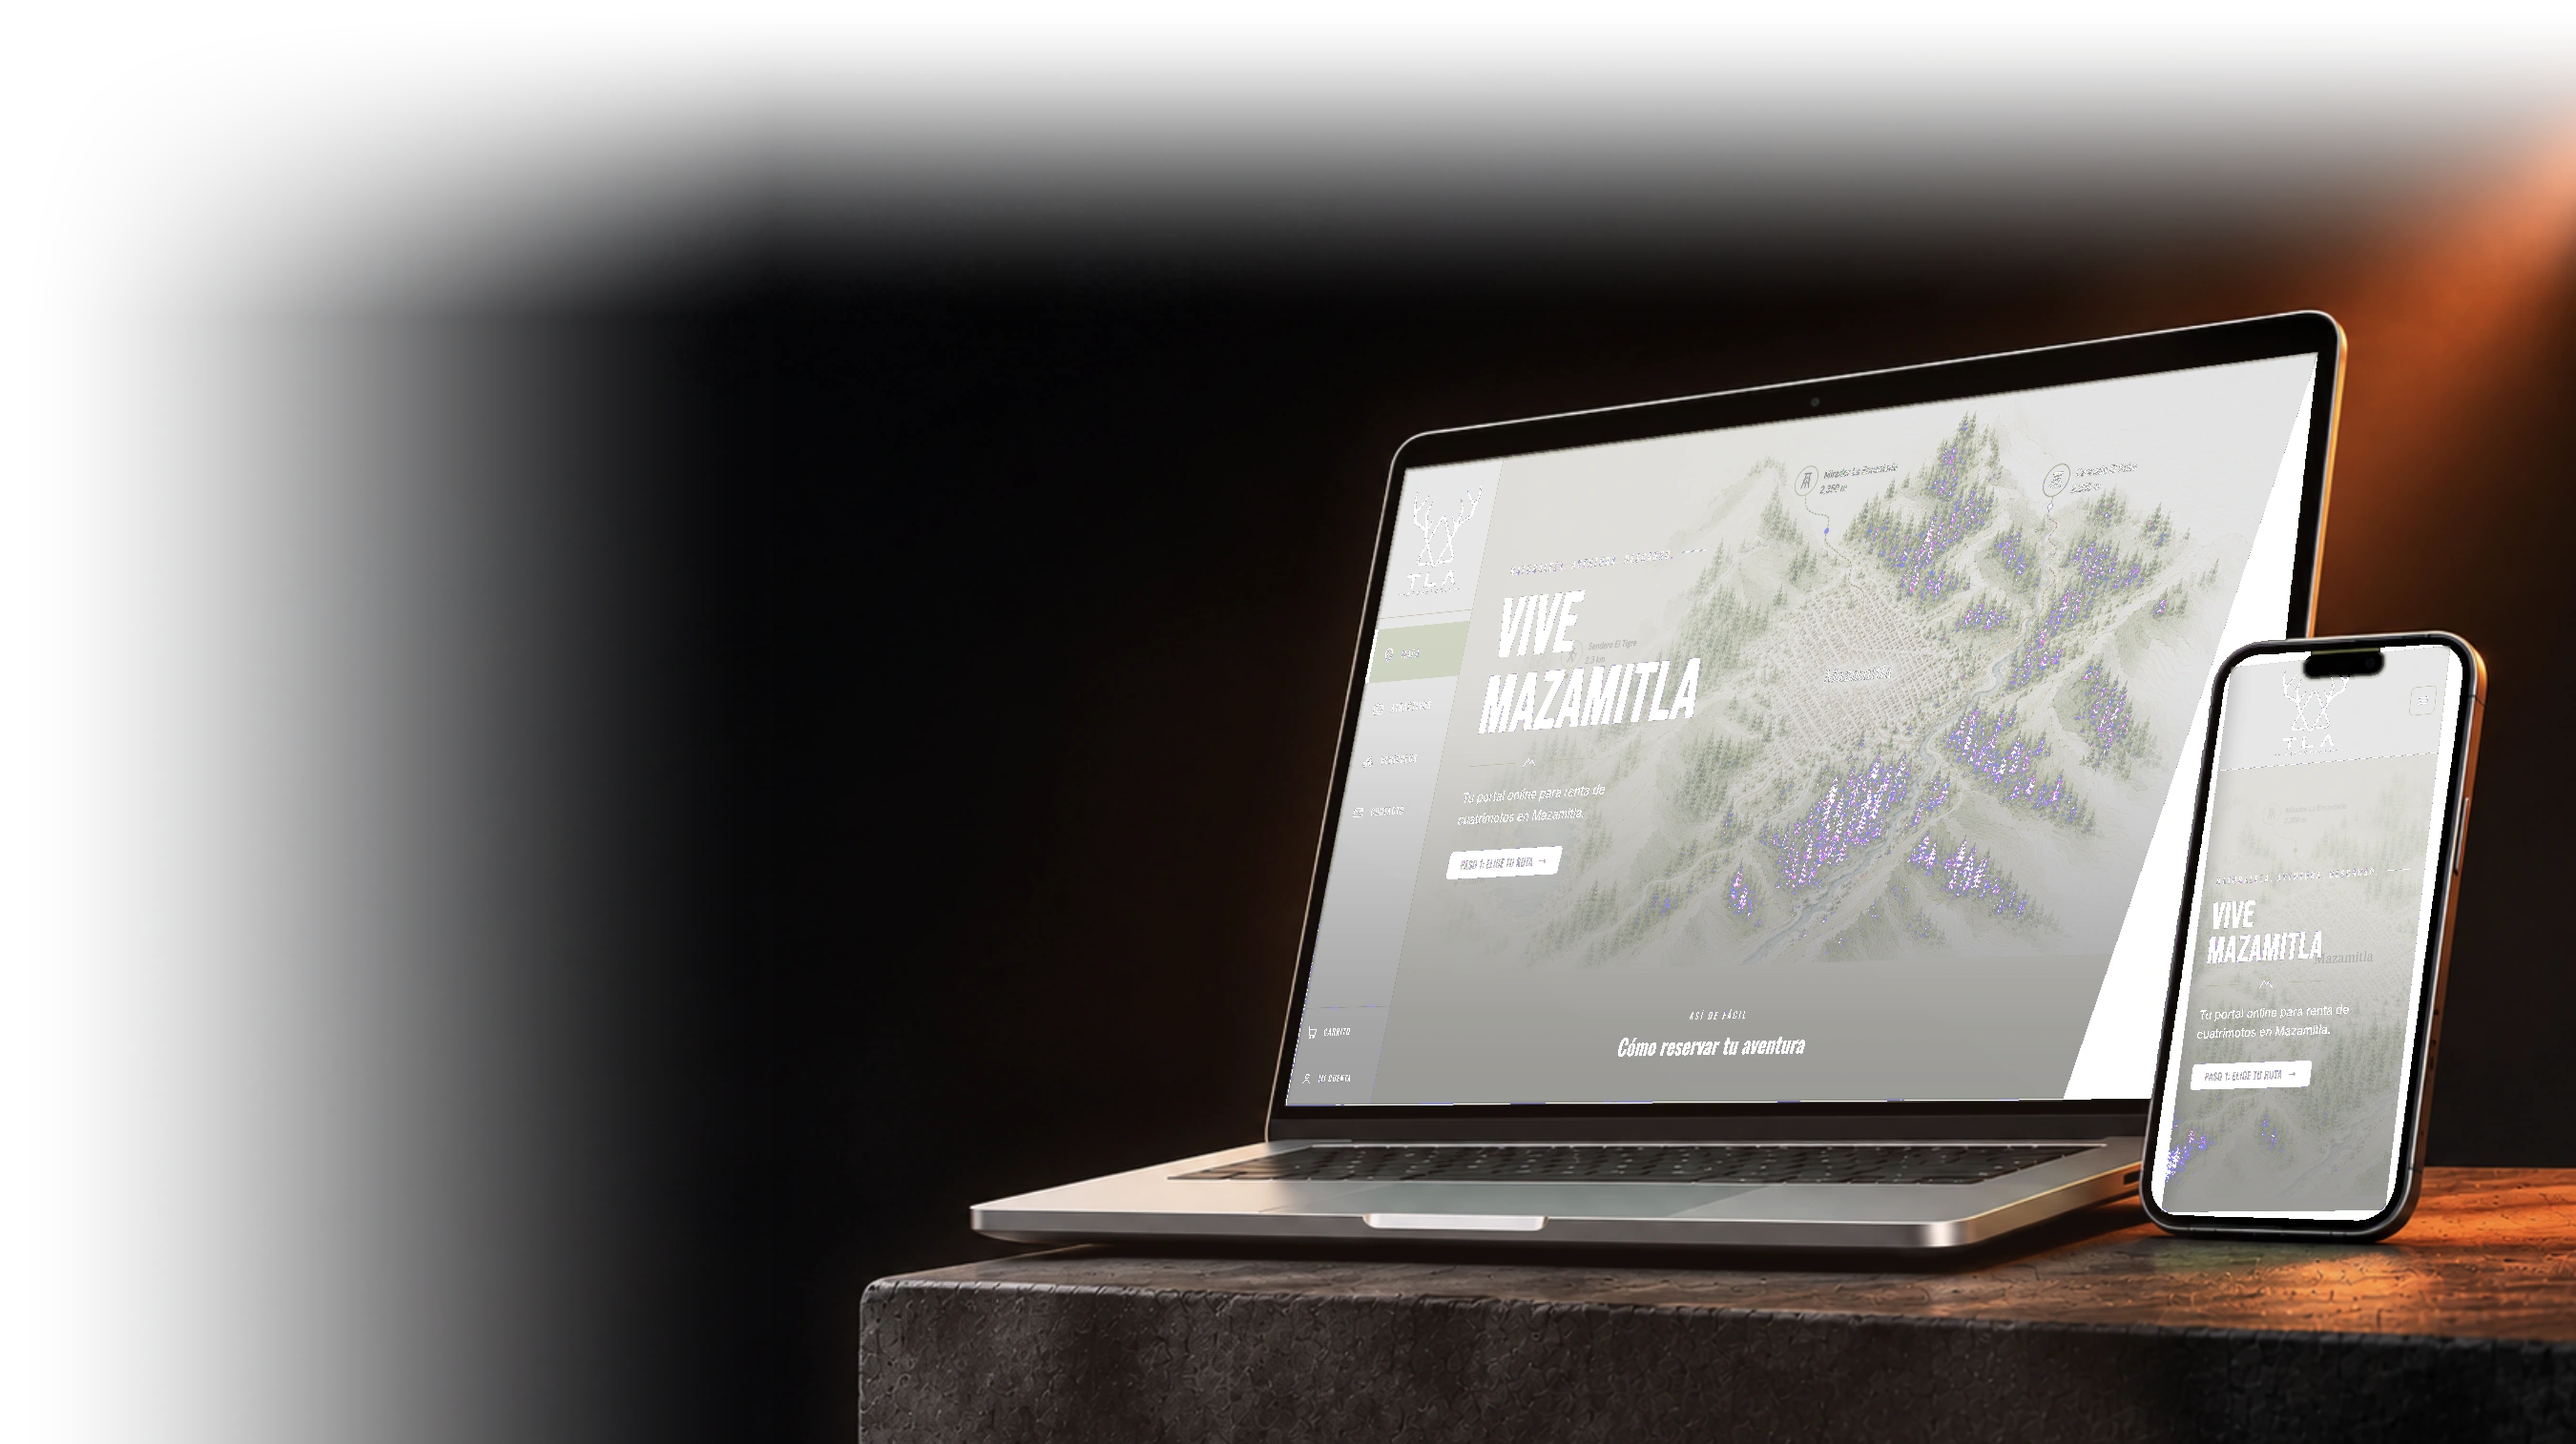
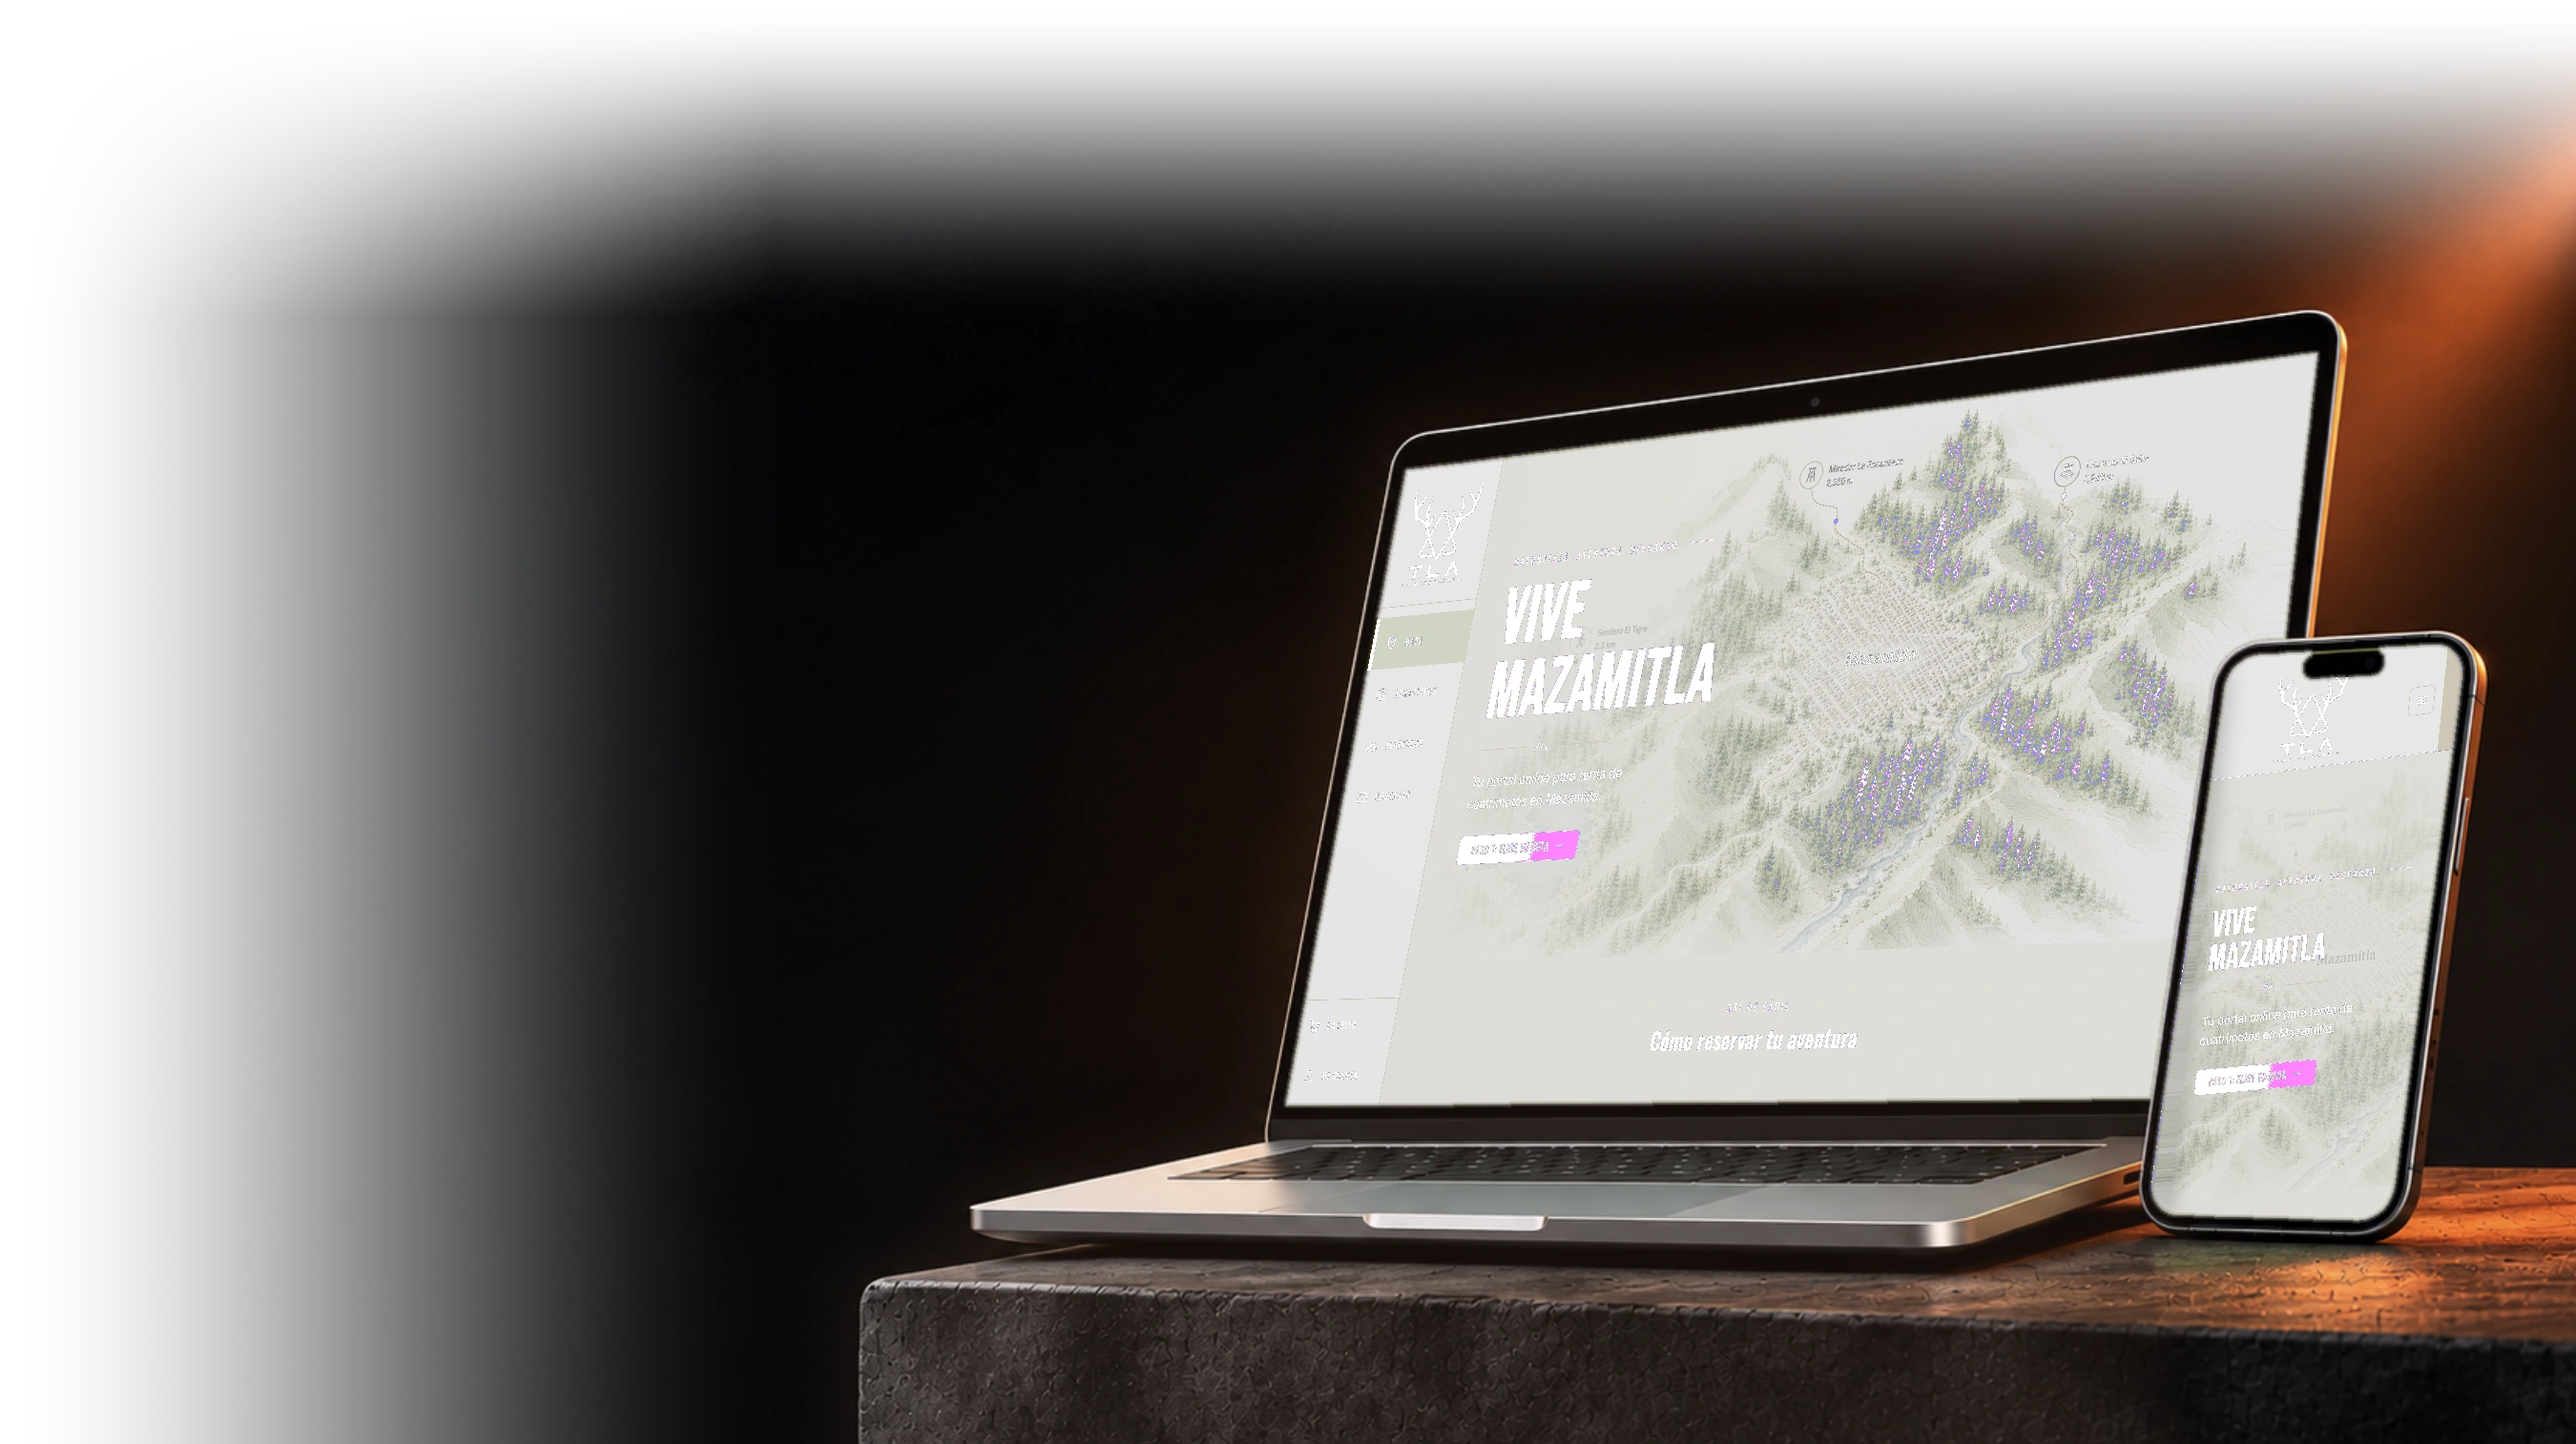
fix(paginas-web): esquinas del warp, espaciado y beneficios

Changed region(s): [[0.4978, 0.2483, 0.9644, 0.8692]]

diff --git a/components/paginas-web/Hero.tsx b/components/paginas-web/Hero.tsx
@@ -57,7 +57,7 @@ export function Hero() {
             Diseñamos y desarrollamos páginas web enfocadas en generar resultados reales, ya sea que hoy no tengas una o quieras una que por fin funcione.
           </p>
 
-          <div className="mb-4 flex flex-wrap items-center gap-[22px]">
+          <div className="mb-6 flex flex-wrap items-center gap-[22px]">
             <a
               href="#cotiza"
               className="inline-flex h-[52px] items-center justify-center gap-2 rounded-full bg-accent px-10 text-[1.05rem] font-semibold text-[#14161A] transition-all hover:-translate-y-0.5 hover:shadow-[0_10px_30px_-8px_rgba(255,128,0,0.55)]"
@@ -75,7 +75,7 @@ export function Hero() {
             </a>
           </div>
 
-          <p className="mb-6 font-mono text-[0.78rem] tracking-wide text-dim">
+          <p className="mb-10 font-mono text-[0.78rem] tracking-wide text-dim">
             Desde $7,500 MXN + IVA · Entrega en 5 días hábiles · Dominio 1er año incluido
           </p>
 
@@ -85,7 +85,7 @@ export function Hero() {
                 key={b.title}
                 className={`flex items-stretch ${i > 0 ? 'lg:border-l lg:border-white/15 lg:pl-6' : ''}`}
               >
-                <div className="flex max-w-[280px] flex-col gap-2 pr-4 lg:max-w-[200px]">
+                <div className="flex max-w-[280px] flex-col gap-2 pr-4 lg:max-w-[235px]">
                   {b.icon}
                   <div>
                     <p className="font-display text-[1rem] font-semibold text-white">{b.title}</p>
@@ -97,7 +97,7 @@ export function Hero() {
           </div>
         </div>
 
-        <div className="pointer-events-none relative z-0 mt-10 aspect-[2700/1514] w-full lg:absolute lg:inset-0 lg:z-0 lg:mt-0 lg:aspect-auto lg:w-auto">
+        <div className="pointer-events-none relative z-0 mt-10 aspect-[2700/1514] w-full lg:absolute lg:top-0 lg:right-0 lg:bottom-[165px] lg:left-[38%] lg:z-0 lg:mt-0 lg:aspect-auto lg:w-auto">
           <Image
             src="/paginas-web/devices-hero.webp"
             alt="Captura del sitio de TLA Adventures en laptop y celular"

diff --git a/scripts/compose_hero_devices.py b/scripts/compose_hero_devices.py
@@ -52,78 +52,35 @@ def green_mask(img):
     return mask
 
 
-def extreme_point(contour, key):
-    pts = contour.reshape(-1, 2)
-    idx = np.argmax([key(p[0], p[1]) for p in pts])
-    return pts[idx].astype(np.float64)
-
-
-def fit_line_xy(points):
-    """Fit x = a*y + b from (y, x) samples via least squares."""
-    ys = points[:, 0]
-    xs = points[:, 1]
-    A = np.vstack([ys, np.ones_like(ys)]).T
-    a, b = np.linalg.lstsq(A, xs, rcond=None)[0]
-    return a, b  # x = a*y + b
-
-
-def laptop_corners(contour, mask):
-    pts = contour.reshape(-1, 2)
-    tl = extreme_point(contour, lambda x, y: -(x + y))
-    tr = extreme_point(contour, lambda x, y: (x - y))
-    bl = extreme_point(contour, lambda x, y: (y - x))
-
-    # Right edge profile: for each row y in the upper half (unoccluded by phone),
-    # take the max x of the mask in that row -> points on the true right edge.
-    y_top = int(tl[1])
-    y_bottom = int(bl[1])
-    y_mid = y_top + int(0.55 * (y_bottom - y_top))
-    right_pts = []
-    for y in range(y_top + 5, y_mid):
-        row = np.where(mask[y] > 0)[0]
-        if row.size:
-            right_pts.append((y, row.max()))
-    right_pts = np.array(right_pts, dtype=np.float64)
-    a_r, b_r = fit_line_xy(right_pts)  # x = a_r*y + b_r
-
-    # Bottom edge profile: for each column x in the left half (unoccluded by phone),
-    # take the max y of the mask in that column -> points on the true bottom edge.
-    x_left = int(tl[0])
-    x_right = int(tr[0])
-    x_mid = x_left + int(0.5 * (x_right - x_left))
-    bottom_pts = []
-    for x in range(x_left + 5, x_mid):
-        col = np.where(mask[:, x] > 0)[0]
-        if col.size:
-            bottom_pts.append((col.max(), x))
-    bottom_pts = np.array(bottom_pts, dtype=np.float64)
-    # fit x = c*y + d too (same form), but here we sampled (y=col.max(), x=x) i.e. (bottom_y, x)
-    # we want y as function of x: y = c*x + d
-    xs = bottom_pts[:, 1]
-    ys = bottom_pts[:, 0]
-    A = np.vstack([xs, np.ones_like(xs)]).T
-    c, d = np.linalg.lstsq(A, ys, rcond=None)[0]  # y = c*x + d
-
-    # Intersect: x = a_r*y + b_r  and y = c*x + d
-    # x = a_r*(c*x + d) + b_r  => x*(1 - a_r*c) = a_r*d + b_r
-    x_br = (a_r * d + b_r) / (1 - a_r * c)
-    y_br = c * x_br + d
-    br = np.array([x_br, y_br])
-
-    return tl, tr, bl, br
-
-
-def phone_corners(contour):
-    hull = cv2.convexHull(contour).reshape(-1, 2)
-    tl = hull[np.argmin(hull[:, 0] + hull[:, 1])].astype(np.float64)
-    tr = hull[np.argmax(hull[:, 0] - hull[:, 1])].astype(np.float64)
-    bl = hull[np.argmax(hull[:, 1] - hull[:, 0])].astype(np.float64)
-    br = hull[np.argmax(hull[:, 0] + hull[:, 1])].astype(np.float64)
-    return tl, tr, bl, br
-
-
-def order_quad(tl, tr, bl, br):
+def order_points(pts):
+    """Standard 4-point ordering: TL (min sum), BR (max sum), TR (min y-x),
+    BL (max y-x)."""
+    s = pts.sum(axis=1)
+    d = (pts[:, 1] - pts[:, 0])  # y - x
+    tl = pts[np.argmin(s)]
+    br = pts[np.argmax(s)]
+    tr = pts[np.argmin(d)]
+    bl = pts[np.argmax(d)]
     return np.array([tl, tr, br, bl], dtype=np.float32)
+
+
+def quad_from_mask(mask):
+    """4 corners straight from the green mask: largest contour -> convex hull ->
+    approxPolyDP down to 4 points (falls back to minAreaRect if that doesn't
+    land on exactly 4)."""
+    contours, _ = cv2.findContours(mask, cv2.RETR_EXTERNAL, cv2.CHAIN_APPROX_SIMPLE)
+    cnt = max(contours, key=cv2.contourArea)
+    hull = cv2.convexHull(cnt)
+    peri = cv2.arcLength(hull, True)
+    pts = None
+    for eps_frac in (0.02, 0.03, 0.05, 0.08):
+        approx = cv2.approxPolyDP(hull, eps_frac * peri, True)
+        if len(approx) == 4:
+            pts = approx.reshape(-1, 2).astype(np.float32)
+            break
+    if pts is None:
+        pts = cv2.boxPoints(cv2.minAreaRect(cnt))
+    return order_points(pts)
 
 
 def warp_into(src_img, dst_quad, canvas_shape):
@@ -134,7 +91,7 @@ def warp_into(src_img, dst_quad, canvas_shape):
     # the device quad; INTER_LINEAR was visibly softer on the screen content.
     warped = cv2.warpPerspective(
         src_img, M, (canvas_shape[1], canvas_shape[0]),
-        flags=cv2.INTER_LANCZOS4, borderMode=cv2.BORDER_CONSTANT, borderValue=(0, 0, 0),
+        flags=cv2.INTER_LANCZOS4, borderMode=cv2.BORDER_REPLICATE,
     )
     return warped
 
@@ -207,11 +164,8 @@ def main():
     phone_mask = np.zeros(mask.shape, np.uint8)
     cv2.drawContours(phone_mask, [phone_cnt], -1, 255, -1)
 
-    tl, tr, bl, br = laptop_corners(laptop_cnt, laptop_mask)
-    laptop_quad = order_quad(tl, tr, bl, br)
-
-    ptl, ptr, pbl, pbr = phone_corners(phone_cnt)
-    phone_quad = order_quad(ptl, ptr, pbl, pbr)
+    laptop_quad = quad_from_mask(laptop_mask)
+    phone_quad = quad_from_mask(phone_mask)
 
     debug = img.copy()
     draw_quad(debug, laptop_quad, (0, 0, 255))
@@ -237,25 +191,6 @@ def main():
     # darken screenshots ~10% before compositing
     warped_laptop = (warped_laptop.astype(np.float32) * 0.90).astype(np.uint8)
     warped_phone = (warped_phone.astype(np.float32) * 0.90).astype(np.uint8)
-
-    def bottom_vignette(img_bgr, mask, max_darken=0.3, start_frac=0.38):
-        """The bottom of the warped screen maps to content below the page's main
-        fold (a lighter next-section on both test sites), which reads as a hard
-        bright wedge against the richer hero content above it. Darken only the
-        lower portion, feathered, so the screen reads as one coherent surface
-        instead of raising brightness anywhere."""
-        ys, xs = np.where(mask > 0)
-        y0, y1 = ys.min(), ys.max()
-        h = y1 - y0 + 1
-        yy = (np.arange(img_bgr.shape[0], dtype=np.float32) - y0) / h
-        frac = np.clip((yy - start_frac) / (1 - start_frac), 0, 1)
-        frac = frac * frac * (3 - 2 * frac)  # smoothstep
-        factor = (1 - frac * max_darken)[:, None]
-        out = img_bgr.astype(np.float32) * factor[:, :, None]
-        return out.astype(np.uint8)
-
-    warped_laptop = bottom_vignette(warped_laptop, laptop_mask)
-    warped_phone = bottom_vignette(warped_phone, phone_mask)
 
     # smooth signed-distance alpha centered exactly on the mask boundary: no gap,
     # monotonic ramp 0->1 across `feather` px on each side of the edge.
